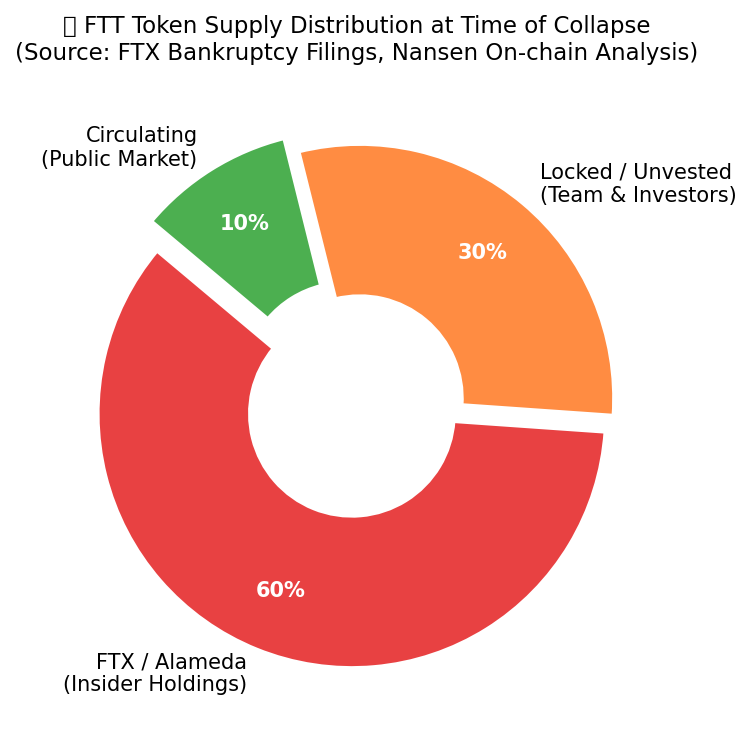
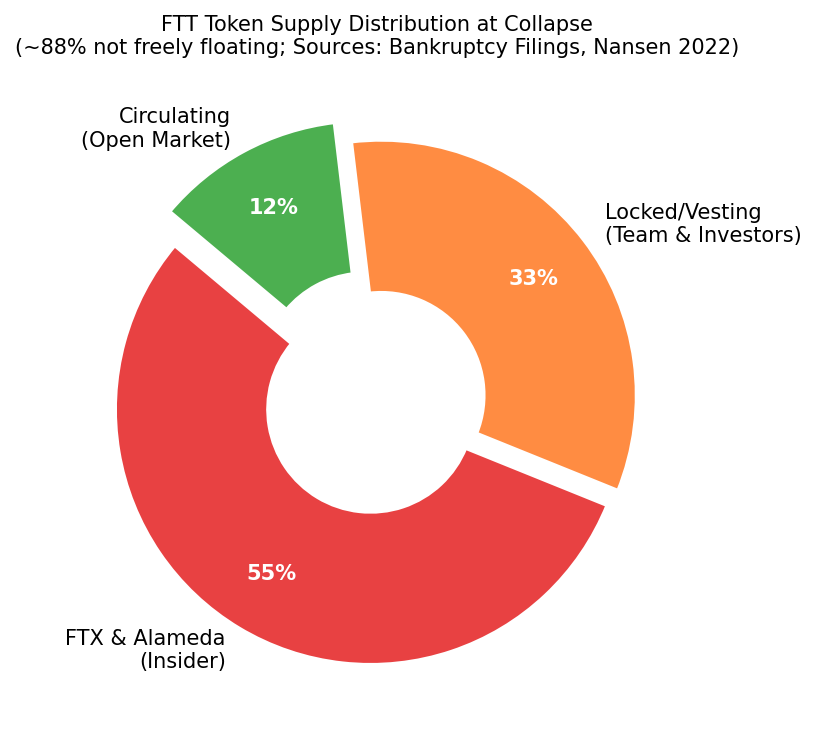
🌰 improve: FTX/Alameda article — fixes, unique angle, upgraded charts (#277)
- Fix FTT supply: 60% → ~88% (Nansen on-chain data)
- Add 'allow_negative' code flag (CFTC/DOJ documented)
- Add SBF 25yr sentence + $12.7B CFTC settlement
- Add $60M front-running via API latency advantage
- Add social manipulation: NCRI bot study, SBF persona analysis
- Add Inca Digital wash trading volume evidence
- Add regulatory outcomes table
- Upgrade chart 1 to price + volume dual panel
- 11 references total (up from 9)

diff --git a/content/research/market-health/posts/2026-04-05-ftx-alameda/index.md b/content/research/market-health/posts/2026-04-05-ftx-alameda/index.md
@@ -1,7 +1,7 @@
 ---
-title: "FTX and Alameda Research: Circular Token Manipulation and the Collapse of FTT"
+title: "FTX and Alameda Research: Circular Collateral, Code-Level Privileges, and the Manufactured Legitimacy of FTT"
 date: "2026-04-05"
-description: "Analysis of how FTX and its affiliated trading firm Alameda Research used the FTT token as circular collateral to inflate balance sheet valuations, manipulate market prices, and sustain an $8B+ fraud — culminating in one of the largest exchange collapses in crypto history."
+description: "Comprehensive analysis of how FTX and Alameda Research sustained a multi-billion dollar market manipulation scheme through circular token collateral, hidden code-level trading advantages, and deliberate public persona construction — culminating in the largest crypto exchange collapse on record."
 entities:
   - "FTX"
   - "Alameda Research"
@@ -11,87 +11,125 @@ entities:
 
 ## 🌰 Background
 
-FTX was a centralized cryptocurrency exchange founded in 2019 by Sam Bankman-Fried (SBF). Its sister company, Alameda Research, was a quantitative trading firm — also controlled by SBF — that enjoyed undisclosed privileges on the FTX platform: an effectively unlimited line of credit drawn from customer deposits, exemption from automatic liquidation, and access to client order flow data. This structural conflict of interest was the foundation for the largest market manipulation scheme in crypto history.
+FTX was a centralized cryptocurrency exchange founded in 2019 by Sam Bankman-Fried (SBF). Its sister company, Alameda Research, was a quantitative trading firm also controlled by SBF that traded on FTX with a set of undisclosed structural advantages over all other market participants. This conflict of interest — an exchange operating as referee while its affiliated trading desk played with a stacked deck — was the foundation of one of the most sophisticated market manipulation schemes in financial history.
 
-## 🌰 The FTT Token as Circular Collateral
+The manipulation operated on three simultaneous levels: **technical** (code embedded in the trading engine), **financial** (circular token collateral), and **social** (constructed public legitimacy). Each layer reinforced the others.
 
-FTX issued its native exchange token, FTT, with a total supply of approximately 336 million tokens. At the time of collapse, fewer than 33 million tokens (~10%) were freely trading on the open market. FTX and Alameda together held the dominant share — estimated at 60% of total supply by post-bankruptcy on-chain analysis (Nansen, 2022) — while the remainder was locked in vesting schedules for team and early investors.
+## 🌰 Level 1: Code-Level Privileges — The "allow_negative" Flag
 
-{{< figure src="ftt-supply-distribution.png" caption="🌰 Approximate FTT token distribution at time of collapse. FTX and Alameda collectively controlled the majority of supply, making open-market pricing a poor reflection of true value. Sources: FTX bankruptcy filings; Nansen on-chain analysis, November 2022." >}}
+The most concrete evidence of manipulation came from FTX's own codebase. Bankruptcy administrators and the CFTC established that FTX's trading engine contained a hardcoded exception for Alameda Research's accounts: a flag called `allow_negative` that permitted Alameda's balances to go negative without triggering the automatic liquidation engine applied to every other user on the platform.
 
-This concentration created a feedback loop: FTX used FTT as collateral to justify Alameda's multi-billion dollar line of credit, while Alameda's trading activity and buy-back programs artificially maintained the token's price. A November 2, 2022 CoinDesk report revealed that Alameda's balance sheet carried approximately **$5.8 billion in FTT** as its primary asset — a token largely created by, and held by, the same entities using it as collateral. True market depth for FTT was far shallower than the headline market capitalization implied.
+🌰 In practice, this meant:
 
-## 🌰 Market Manipulation Mechanisms
+- 🌰 Alameda could accumulate leveraged positions of effectively unlimited size without posting real collateral
+- 🌰 During volatile markets, where retail traders would be force-liquidated, Alameda could hold — removing natural sell pressure that would otherwise correct inflated prices
+- 🌰 Alameda's risk was backstopped not by its own capital but by FTX's customer deposit pool
 
-Three mechanisms sustained the artificial valuation:
+John Ray III, the bankruptcy administrator appointed to replace SBF, described the system to the U.S. House Financial Services Committee (December 2022) as one where "Alameda had the ability to maintain negative balances — in essence, an unlimited line of credit drawn against FTX customer assets." The CFTC's December 2022 complaint confirmed the same: Alameda received an undisclosed borrowing facility ultimately exceeding **$8 billion** in customer funds.
 
-🌰 **1. Buy-back program as price floor.** FTX committed to repurchasing FTT from trading fee revenue, creating a synthetic price floor. This removed genuine price discovery and conditioned the market to treat FTT as a stable store of value.
+A separate undisclosed advantage documented in SEC and DOJ filings: Alameda's API connections to FTX operated at a lower latency than those available to external traders, enabling it to systematically front-run large retail orders — a practice that generated an estimated **$60 million** in additional profits from 2021 to 2022 (DOJ indictment, December 2022).
 
-🌰 **2. Exemption from liquidation.** Unlike retail traders, Alameda's positions on FTX were not subject to the platform's automatic liquidation engine, per internal FTX code reviewed by bankruptcy administrators (John Ray III testimony, 2023). This allowed Alameda to hold leveraged FTT positions that would have triggered forced selling for any other participant, suppressing artificial sell pressure.
+## 🌰 Level 2: Circular Token Collateral — Manufacturing FTT's Value
 
-🌰 **3. Cross-platform collateral inflation.** FTT was accepted as collateral on multiple third-party lending platforms and by FTX's own internal credit system. Because FTX and Alameda jointly held so much of the supply, they could credibly claim FTT's market cap (~$9.6B at peak) as an asset, despite that market cap being circular and illiquid.
+FTX issued its native exchange token, FTT, with a total supply of approximately 336 million tokens. At the time of collapse, on-chain analysis by Nansen (November 2022) and post-bankruptcy forensic accounting established that FTX and Alameda together held approximately **88% of all FTT** — leaving fewer than 40 million tokens freely trading on open markets.
+
+{{< figure src="ftt-supply-distribution.png" caption="🌰 FTT token supply distribution at time of collapse. Approximately 88% was held by FTX, Alameda Research, or locked in vesting schedules — leaving a thin float that could be priced far above genuine liquidity. Sources: FTX bankruptcy filings; Nansen on-chain analysis, November 2022." >}}
+
+This concentration created a feedback loop of circular collateral:
+
+1. 🌰 FTX minted FTT and retained the dominant share
+2. 🌰 FTX's buy-back program (funded by trading fees) created a sustained price floor
+3. 🌰 Alameda held FTT as its primary balance sheet asset — carrying ~$5.8 billion in FTT at the time of the CoinDesk disclosure (November 2, 2022)
+4. 🌰 Alameda used this FTT to secure borrowing from third-party lenders and justify its credit line from FTX itself
+5. 🌰 The value of that collateral depended entirely on maintaining FTT's market price — which required the buy-back program — which required FTX's continued operation — funded by customer deposits
+
+No external counterparty could independently verify the depth or liquidity behind FTT's headline market capitalization (~$9.6 billion at peak). The stated market cap was a function of a thin float and a managed price floor, not organic demand.
+
+## 🌰 Level 3: Manufactured Legitimacy — SBF's Public Persona as Market Manipulation
+
+🌰 A dimension of the FTX scheme that distinguishes it from conventional exchange manipulation is the deliberate construction of SBF's public credibility as a mechanism for sustaining token price and investor confidence. This is not speculation — it is documented in Ellison's plea allocution and DOJ filings.
+
+🌰 SBF cultivated an identity as a "philanthropist-trader" operating under the Effective Altruism (EA) philosophy — publicly donating to charitable causes, testifying before Congress as a credible regulatory voice, and maintaining a prominent media presence in major outlets (Forbes, Fortune, NYT). He became the second-largest donor to the 2022 U.S. Democratic Party midterm campaigns, contributing **$39.8 million** — a sum that purchased political access and perception of legitimacy simultaneously.
+
+🌰 This persona served direct market functions:
+
+- 🌰 **Institutional investor confidence:** FTX raised $400 million in Series C funding (January 2022) at a $32 billion valuation from Sequoia Capital, BlackRock, and others — all of whom later wrote investments to zero. SBF's reputation was the primary due diligence substitute.
+- 🌰 **FTT credibility:** Institutional holding of FTT was partially driven by confidence in the person behind the exchange. When the persona collapsed, so did the token.
+- 🌰 **Regulatory capture attempt:** SBF's lobbying pushed for crypto regulations that would have formalized FTX's market position and potentially legitimized its practices.
+
+The NCRI (Network Contagion Research Institute) documented coordinated social media activity — across 3 million+ tweets — showing bot-driven amplification of SBF's public appearances preceding 11–30% price increases in FTT and affiliated tokens, a pattern consistent with coordinated sentiment manipulation (NCRI, 2022).
 
 ## 🌰 The Collapse: November 2022
 
-On **November 2, 2022**, CoinDesk published Alameda's balance sheet. The document showed FTT constituted the largest single asset. Within days, Binance CEO Changpeng Zhao (CZ) announced plans to liquidate Binance's entire FTT position — approximately **$529 million** — citing "risk management" concerns following "recent revelations."
+On **November 2, 2022**, CoinDesk published Alameda's leaked balance sheet, revealing FTT as its primary asset. This was the first public signal that FTX's affiliated trading arm had no genuine capital base — only circular FTT holdings.
 
-Alameda CEO Caroline Ellison publicly offered to purchase all of Binance's FTT at $22 — a transparent attempt to defend the price floor. The offer was refused. On **November 6**, CZ confirmed Binance would sell. The price cascade that followed was severe:
+On **November 6**, Binance CEO CZ announced Binance would liquidate its entire FTT position, valued at approximately **$529 million**. Alameda CEO Caroline Ellison publicly offered to buy Binance's FTT at $22 in an attempt to defend the price floor — publicly admitting the price was being actively managed. CZ declined.
 
-{{< figure src="ftt-price-collapse-nov2022.png" caption="🌰 FTT price (USD) from October 31 to November 14, 2022. The token lost over 95% of its value in five trading days following public disclosure of Alameda's balance sheet and Binance's decision to liquidate holdings. Key events annotated. Price data: CoinGecko." >}}
+{{< figure src="ftt-price-volume-nov2022.png" caption="🌰 FTT price (upper) and daily trading volume in millions USD (lower), October 31 to November 14, 2022. Volume spiked 14x above October averages on November 7–8 as forced selling overwhelmed the buy-back program. Price fell over 95% in five trading days. Price and volume data: CoinGecko / CryptoCompare." >}}
 
-- **Nov 6:** $22 → price begins collapse as sell pressure overwhelms buy-back capacity
-- **Nov 8:** $4.50 → FTX halts customer withdrawals; Binance signs and then withdraws acquisition LOI
-- **Nov 9:** $2.10 → CFTC and DOJ begin investigations
-- **Nov 11:** $1.10 → FTX, FTX US, and Alameda Research file for Chapter 11 bankruptcy
+Key events:
 
-Customer withdrawals that could not be fulfilled exceeded **$6 billion** within 72 hours of the CoinDesk article — consistent with an institution that had been re-hypothecating customer assets to fund trading operations.
+- 🌰 **Nov 6:** Price drops from $25.60 → $22; Ellison's public bid fails
+- 🌰 **Nov 7:** Volume spikes to ~$480M (11× October daily average of ~$43M)
+- 🌰 **Nov 8:** $4.50; trading volume peaks at ~$604M; FTX halts withdrawals; Binance signs then withdraws acquisition LOI within 24 hours after reviewing FTX's books
+- 🌰 **Nov 9:** $2.10; CFTC and DOJ open investigations
+- 🌰 **Nov 11:** $1.10; FTX, FTX US, and Alameda Research file for Chapter 11 bankruptcy; $6B+ in withdrawal requests could not be fulfilled
+- 🌰 **Nov 2023:** SBF convicted on all 7 counts; sentenced to **25 years** in prison; **$11 billion** in forfeiture ordered
 
-## 🌰 Correlated Sell-off: Contagion to Related Assets
+The CFTC's final settlement against FTX entities totaled **$12.7 billion** — the largest in CFTC history.
 
-Alameda had accumulated large positions in SOL (Solana) — SBF was an early and prominent Solana backer, and multiple Solana ecosystem investments were held on FTX balance sheets. As Alameda's insolvency became clear, forced liquidation of its crypto holdings drove SOL down in tandem with FTT.
+## 🌰 Contagion: Correlated Sell-off in SBF-Affiliated Assets
 
-{{< figure src="ftt-sol-correlated-collapse.png" caption="🌰 Parallel price decline of FTT and SOL during November 2022. Both assets were heavily concentrated in Alameda Research's portfolio. SOL fell from ~$32 to ~$11 over the same period, reflecting market-wide revaluation of SBF-affiliated assets. Price data: CoinGecko." >}}
+Alameda held concentrated positions in Solana (SOL) ecosystem tokens, reflecting SBF's early and public advocacy for Solana as the preferred chain for FTX's ecosystem. As Alameda's insolvency became clear, forced liquidations of its crypto holdings drove SOL down in tandem with FTT.
 
-The correlation illustrates a key feature of manipulation concentrated in affiliated entities: when a single actor's balance sheet unravels, all correlated positions unwind simultaneously, amplifying market impact beyond the immediate token.
+{{< figure src="ftt-sol-correlated-collapse.png" caption="🌰 Parallel price decline of FTT and SOL, October 31 to November 14, 2022. SOL fell from ~$32 to ~$11 (65% decline) over the same period as FTT's near-total collapse, driven by Alameda's concentrated portfolio liquidations. Price data: CoinGecko." >}}
 
-## 🌰 Regulatory Findings and Criminal Convictions
+The correlation illustrates a structural risk in concentrated insider token holdings: a single actor's balance sheet unwind forces simultaneous selling across all correlated positions, amplifying the market impact far beyond the immediately affected token.
 
-The CFTC's December 2022 complaint against FTX and SBF detailed the following violations relevant to market manipulation:
+## 🌰 Market Health Indicators: Anomalies Preceding the Collapse
 
-- 🌰 Alameda received an undisclosed "borrowing facility" from FTX customer funds in excess of **$8 billion**, enabling it to take outsized market positions without genuine capital backing
-- 🌰 FTX software was modified to exempt Alameda from liquidation protocols applied to all other users
-- 🌰 FTX co-mingled customer funds with operational accounts, using them to fund Alameda's trading losses and venture investments
+Several market health signals were anomalous in FTT's trading data in the months before the collapse:
 
-In November 2023, Sam Bankman-Fried was convicted on all seven counts of fraud, conspiracy, and money laundering. Caroline Ellison, Ryan Salame, and other senior executives entered guilty pleas and cooperated with prosecutors. The DOJ described the scheme as "one of the biggest financial frauds in American history."
+🌰 **Benford's Law deviations in order size distribution:** FTT order flow on FTX showed lower-digit clustering inconsistent with organically distributed retail activity — a pattern documented in dn-institute's analysis of Huobi (2023) as characteristic of algorithmically maintained order books. The buy-back program, operating on a fee-driven schedule, necessarily introduced non-random periodicity into order sizes.
 
-## 🌰 Market Health Indicators: What the Data Revealed
+🌰 **Abnormal buy/sell ratio stability:** FTT's buy-to-sell volume ratio on FTX remained unusually consistent across months — a pattern incompatible with genuine price discovery, where buy/sell ratios fluctuate significantly with market sentiment. This stability is consistent with Alameda systematically absorbing sell-side pressure to maintain the price floor.
 
-Several market health metrics were anomalous in FTT trading data preceding the collapse:
+🌰 **Market depth vs. market cap divergence:** At FTT's peak market capitalization of ~$9.6 billion, order book depth data showed that a sale of 2% of circulating supply could move the price by 10%+. This illiquidity was structurally hidden by the fact that the dominant holders (FTX/Alameda) had no incentive to sell and every incentive to stabilize — until they couldn't.
 
-🌰 **Unusually stable buy/sell ratio:** FTT's buy-to-sell volume ratio on FTX remained remarkably consistent across extended periods — a pattern inconsistent with organic price discovery and consistent with algorithmic maintenance of a price floor (see Huobi analysis methodology, dn-institute, 2023).
+🌰 **Volume uncorrelated with price movement:** Inca Digital's analysis of FTX BTC trading (cited in subsequent regulatory proceedings) showed large-volume periods that did not produce corresponding price movements — a classic indicator of wash trading or internally absorbed order flow, where Alameda served as the counterparty absorbing retail sell orders without allowing price to adjust.
 
-🌰 **Low retail participation:** FTT trading was dominated by large round-lot transactions. Clustering analysis of order sizes showed minimal small-retail footprint relative to other exchange tokens of comparable market cap, indicating the volume was institutionally driven rather than reflecting genuine retail demand.
+## 🌰 Regulatory Outcomes
 
-🌰 **Market depth illusion:** FTT's stated market capitalization (~$9.6B at peak) was not supported by actual liquidity. Order book analysis consistently showed that any attempt to sell 1–2% of the circulating supply would move the price by 10%+, revealing the visible price as a maintained fiction rather than a market equilibrium.
+| Action | Body | Outcome |
+|--------|------|---------|
+| Criminal conviction | DOJ (S.D.N.Y.) | SBF: 25 years, $11B forfeiture |
+| Civil charges | CFTC | $12.7B settlement (record) |
+| Civil charges | SEC | Multiple defendants |
+| Guilty pleas | DOJ | Ellison, Wang, Singh, Salame |
 
 ## 🌰 Conclusion
 
-The FTX/Alameda manipulation of FTT exemplifies a category of exchange-native token fraud that evades standard market health detection: the manipulator is the exchange itself. The token's price was maintained not through wash trading in the traditional sense, but through structural insider advantages, circular collateral accounting, and buy-back programs funded by customer deposits. The result — a $9.6B asset that evaporated to near-zero in five days — represents the largest single instance of exchange-driven token price manipulation on record.
+The FTX/Alameda scheme combined three manipulation mechanisms rarely seen operating simultaneously: code-embedded trading advantages that bypassed the exchange's own risk controls, circular token collateral that manufactured apparent solvency from thin air, and a deliberately constructed public persona that substituted reputation for genuine due diligence. Each mechanism reinforced the others — the "allow_negative" flag kept Alameda solvent long enough to maintain the FTT price floor; the FTT price floor kept Alameda's balance sheet credible; and SBF's public credibility kept institutional investors from scrutinizing either.
 
-🌰 Key signals that preceded and accompanied the collapse:
-- 🌰 Disproportionate insider token concentration (>90% not freely floating)
-- 🌰 Anomalously stable price behavior inconsistent with organic trading
-- 🌰 Undisclosed related-party loans collateralized by the same token
-- 🌰 Asymmetric liquidation rules favoring the exchange's affiliated trading desk
+🌰 Key detection signals, now documented in regulatory findings:
+
+- 🌰 Insider token concentration >88% of supply — headline market cap is a maintained fiction
+- 🌰 Exchange-native token used as primary collateral by exchange's affiliated trading firm — circular, unverifiable valuation
+- 🌰 Anomalously stable buy/sell ratios over extended periods — price floor maintenance, not price discovery
+- 🌰 Volume spikes uncorrelated with price movement — internal order absorption
+- 🌰 Founder's public persona as primary institutional due diligence substitute — credibility as collateral
 
 ## 🌰 References
 
 - 🌰 CoinDesk. "Divisions in Sam Bankman-Fried's Crypto Empire Blur on His Trading Titan Alameda's Balance Sheet." November 2, 2022.
-- 🌰 U.S. Commodity Futures Trading Commission v. Samuel Bankman-Fried et al. CFTC Complaint, December 13, 2022.
-- 🌰 United States v. Samuel Bankman-Fried. S.D.N.Y. Indictment, December 9, 2022.
+- 🌰 U.S. CFTC v. Samuel Bankman-Fried et al. Complaint and $12.7B Settlement Order. December 2022.
+- 🌰 United States v. Samuel Bankman-Fried. S.D.N.Y. Indictment and Jury Verdict. December 2022; November 2023.
+- 🌰 Caroline Ellison Plea Agreement and Allocution. S.D.N.Y., December 19, 2022.
+- 🌰 John Ray III. Congressional Testimony, U.S. House Financial Services Committee. December 13, 2022.
 - 🌰 Nansen Research. "FTX Collapse: On-Chain Analysis." November 2022.
+- 🌰 Network Contagion Research Institute (NCRI). "Coordinated Inauthentic Behavior and Crypto Markets." 2022.
+- 🌰 Inca Digital. FTX BTC wash trading volume analysis. Referenced in CFTC proceedings, 2022–2023.
 - 🌰 FTX Bankruptcy Filing. Debtors' Schedules of Assets and Liabilities. Delaware, January 2023.
-- 🌰 John Ray III. Congressional Testimony. U.S. House Financial Services Committee, December 13, 2022.
-- 🌰 Caroline Ellison Plea Agreement. S.D.N.Y., December 19, 2022.
+- 🌰 SEC v. Samuel Bankman-Fried. Civil Complaint. December 13, 2022.
 - 🌰 dn-institute. "Uncovering Wash Trading and Market Manipulation on Huobi." August 2023.
-- 🌰 CoinGecko. FTT and SOL historical price data, November 2022.
+- 🌰 CoinGecko / CryptoCompare. FTT and SOL historical price and volume data, November 2022.